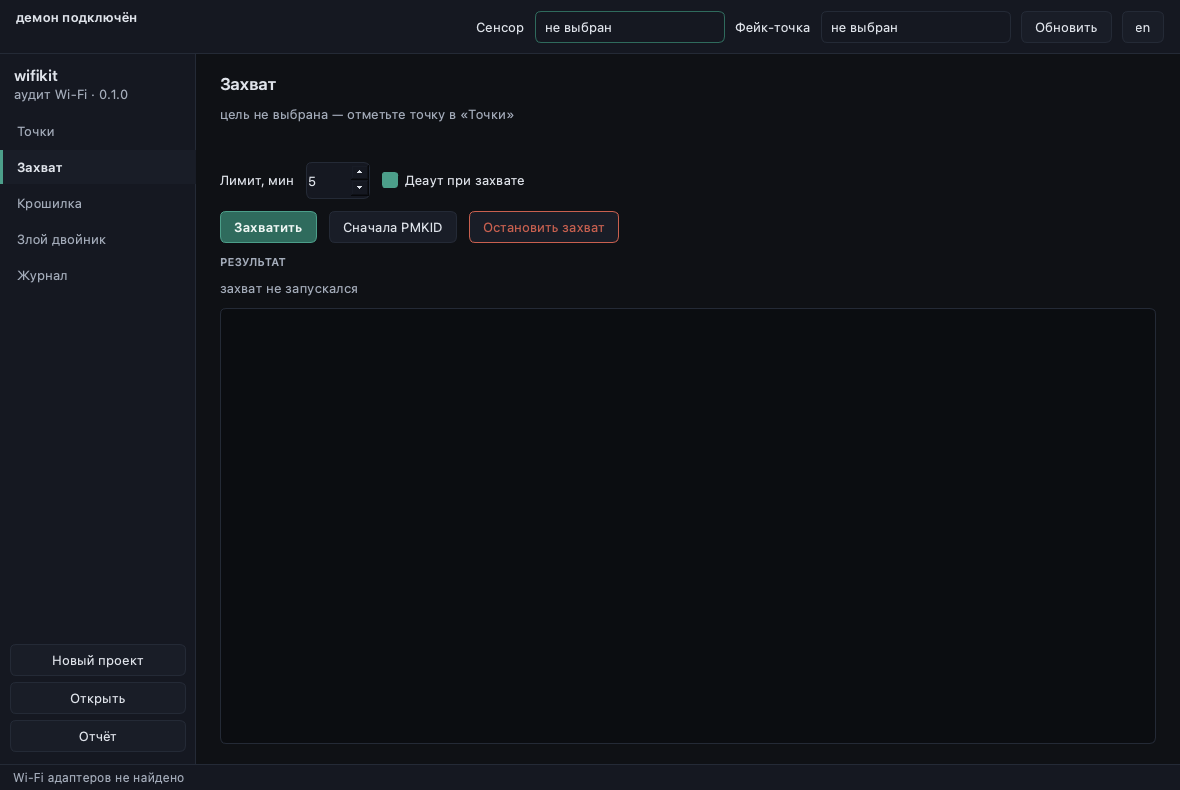
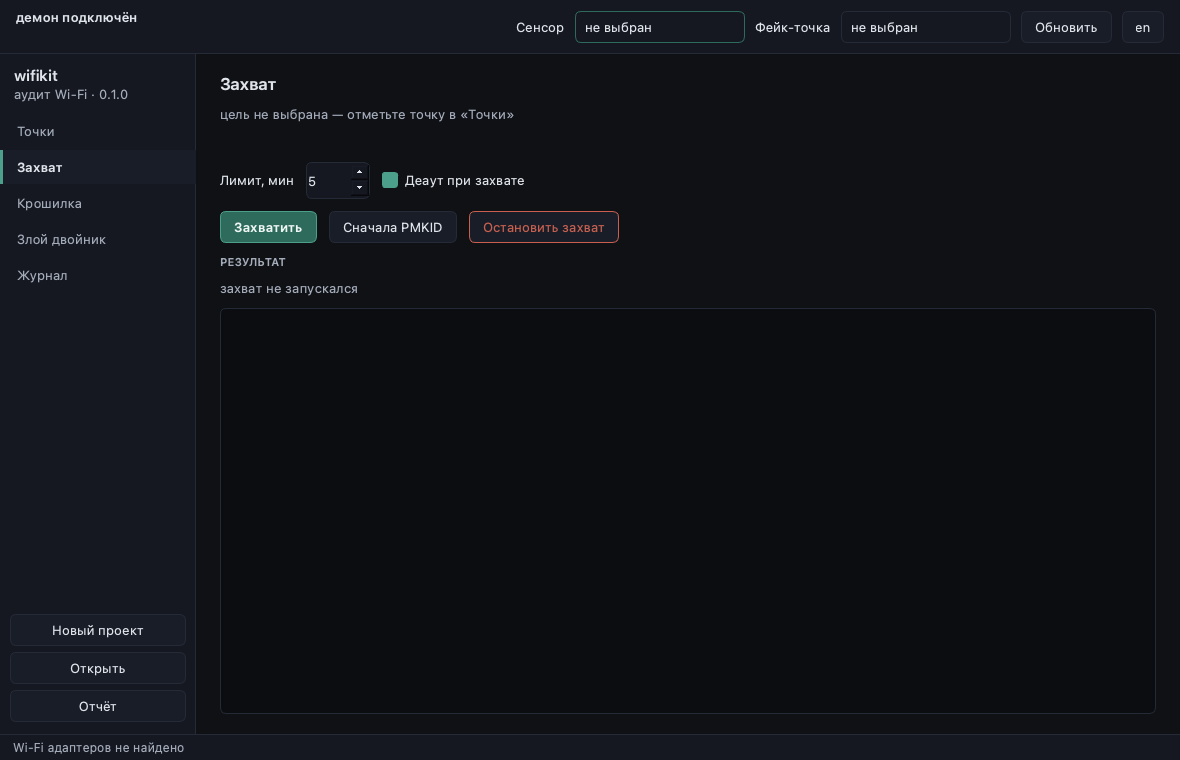
адаптеры: отказ при назначении одного интерфейса на обе роли, подсказки в шапке
- adapters_assign проверяет занятость другой роли до смены состояния
- GUI после отказа перечитывает назначение, шапка не расходится с демоном
- шапка: tooltips у ролей, минимальная ширина окна 1080, чтобы второй список не уезжал
- USAGE: раздел про адаптеры переписан — сколько нужно под каждую задачу, кто за что
  отвечает, как выбрать второй, как проверить режимы через iw phy
- TESTCASES: D2 уточнён, добавлены D7-D9, N1 приведён к фактическому тексту
- тесты на отказ и на освобождение роли

diff --git a/app/main.py b/app/main.py
@@ -38,6 +38,7 @@ class MainWindow(QMainWindow):
         self.lang = "ru"
         self.setWindowTitle("wifikit")
         self.resize(1180, 780)
+        self.setMinimumSize(1080, 700)
         self._build()
         self._connect()
         self.timer = QTimer(self)
@@ -74,15 +75,23 @@ class MainWindow(QMainWindow):
         bar.addLayout(project_box)
         bar.addStretch(1)
 
-        bar.addWidget(QLabel(i18n.t("adapters.probe")))
+        hint_probe = QLabel(i18n.t("adapters.probe"))
+        hint_probe.setToolTip("Слушает эфир: скан, захват рукопожатия, деаут.\n"
+                              "Нужен monitor-режим и инъекция.")
+        bar.addWidget(hint_probe)
         self.combo_probe = QComboBox()
-        self.combo_probe.setMinimumWidth(190)
+        self.combo_probe.setMinimumWidth(170)
+        self.combo_probe.setToolTip("Адаптер-сенсор: скан, захват рукопожатия, деаут")
         self.combo_probe.currentIndexChanged.connect(lambda: self._assign("probe"))
         bar.addWidget(self.combo_probe)
 
-        bar.addWidget(QLabel(i18n.t("adapters.ap")))
+        hint_ap = QLabel(i18n.t("adapters.ap"))
+        hint_ap.setToolTip("Вещает клон точки с порталом.\n"
+                           "Нужен режим точки доступа (nl80211). Для захвата не нужен.")
+        bar.addWidget(hint_ap)
         self.combo_ap = QComboBox()
-        self.combo_ap.setMinimumWidth(190)
+        self.combo_ap.setMinimumWidth(170)
+        self.combo_ap.setToolTip("Адаптер фейк-точки: поднимает клон с порталом")
         self.combo_ap.currentIndexChanged.connect(lambda: self._assign("ap"))
         bar.addWidget(self.combo_ap)
 
@@ -315,7 +324,7 @@ class MainWindow(QMainWindow):
         combo = self.combo_probe if role == "probe" else self.combo_ap
         iface = combo.currentData()
         task = Task(self.remote, "adapters_assign", role=role, iface=iface or "")
-        task.failed.connect(safe_callback(self, "adapters_assign:fail", self.show_error))
+        task.failed.connect(safe_callback(self, "adapters_assign:fail", self._assign_failed))
         task.start()
 
     # --------------------------------------------------------------- project
@@ -332,6 +341,11 @@ class MainWindow(QMainWindow):
         task.done.connect(safe_callback(self, "project_new", self._project_ready))
         task.failed.connect(safe_callback(self, "project_new:fail", self.show_error))
         task.start()
+
+    @safe_slot
+    def _assign_failed(self, message: str, detail: str) -> None:
+        self.show_error(message, detail)
+        self._load_adapters()  # вернуть шапку к тому, что реально назначено
 
     @staticmethod
     def projects_root() -> Path:

diff --git a/tests/unit/test_gui_contract.py b/tests/unit/test_gui_contract.py
@@ -80,6 +80,40 @@ class SessionApiTest(unittest.TestCase):
         missing = [m for m in SESSION_METHODS if not hasattr(session, m)]
         self.assertEqual(missing, [])
 
+    def test_same_adapter_for_both_roles_refused(self):
+        """Один адаптер не может быть и сенсором, и фейк-точкой."""
+        from unittest import mock
+
+        from core import adapters as adapters_mod
+        from core.base import WilfiError
+        from daemon.session import Session
+
+        class FakeAdapter:
+            iface = "wlx_fake"
+            monitor = True
+            ap = True
+            rfkill_blocked = False
+
+        session = Session()
+        with mock.patch.object(adapters_mod, "get_adapter", lambda iface: FakeAdapter()):
+            session.adapters_assign("probe", "wlx_test")
+            with self.assertRaises(WilfiError):
+                session.adapters_assign("ap", "wlx_test")
+            session.adapters_assign("ap", "wlx_other")
+        self.assertEqual((session.probe_iface, session.ap_iface), ("wlx_test", "wlx_other"))
+
+    def test_role_cleared_by_empty_selection(self):
+        from unittest import mock
+
+        from core import adapters as adapters_mod
+        from daemon.session import Session
+
+        session = Session()
+        with mock.patch.object(adapters_mod, "get_adapter", lambda iface: None):
+            session.adapters_assign("probe", "wlx_test")
+            session.adapters_assign("probe", "")
+        self.assertEqual(session.probe_iface, "")
+
     def test_mutating_methods_are_declared(self):
         from daemon import rpc
 

diff --git a/daemon/session.py b/daemon/session.py
@@ -121,6 +121,14 @@ class Session:
         }
 
     def adapters_assign(self, role: str, iface: str) -> dict:
+        other = self.ap_iface if role == "probe" else self.probe_iface
+        if iface and iface == other:
+            raise WilfiError(
+                f"{iface} уже занят другой ролью",
+                code="busy",
+                detail="Сенсор и фейк-точка — разные физические адаптеры: один слушает эфир "
+                       "на канале цели, второй вещает клон. Освободите роль, если хотите поменять.",
+            )
         adapter = adapters_mod.get_adapter(iface) if iface else None
         if adapter:
             adapters_mod.ensure_capability(adapter, role)

diff --git a/docs/USAGE.md b/docs/USAGE.md
@@ -32,18 +32,56 @@ pgrep -af "wifikit/daemon.py"         # один процесс, от root
 
 ## 2. Адаптеры
 
-Роли жёстко разделены:
+### Сколько нужно
 
-| роль | что делает | требования |
+| что делаете | адаптеров | почему |
 |---|---|---|
-| **Сенсор** | скан, захват, деаут | драйвер с monitor-режимом и инъекцией |
-| **Фейк-точка** | поднимает AP с порталом | драйвер с AP-режимом (nl80211) |
+| скан эфира | 1 (сенсор) | скан идёт на одном интерфейсе |
+| захват рукопожатия / PMKID | 1 (сенсор) | деаут шлётся тем же адаптером |
+| крошилка (брутфорс) | 0 | это оффлайн-работа hashcat по файлу `.hc22000` |
+| злой двойник с порталом | **2** | один ловит и глушит клиентов, второй вещает клон |
 
-Один интерфейс нельзя назначить на обе роли — приложение откажется: физически адаптер не сможет
-одновременно ловить эфир на канале жертвы и вещать на своём.
+Второй адаптер нужен только для злого двойника. С одним адаптером можно спокойно сканировать,
+захватывать рукопожатие и крошить — недоступен будет только подъём клона точки.
 
-Выбор в шапке: «Сенсор» и «Фейк-точка». Если пишет «(непригоден)» — `iw phy` не показал нужный режим,
-такой пункт заблокирован. Кнопка «Обновить» перечитывает список (после переподключения адаптера).
+### Кто за что отвечает
+
+| роль в шапке | что делает | требования |
+|---|---|---|
+| **Сенсор** | скан, захват (hcxdumptool), деаут (aireplay-ng), проверка пароля | драйвер с monitor-режимом **и** инъекцией |
+| **Фейк-точка** | MAC/SSID/канал клона, hostapd + dnsmasq + портал 80/8080 | драйвер с AP-режимом (`nl80211`) |
+
+Роли не взаимозаменяемы: сенсор должен слушать канал жертвы, пока фейк-точка вещает клон на том же
+канале. Один интерфейс этого не может — поэтому один и тот же адаптер на обе роли приложение
+не примет (сообщение «уже занят другой ролью»).
+
+### Как выбрать
+
+В шапке два списка: **«Сенсор»** и **«Фейк-точка»**. Это и есть выбор первого и второго адаптера —
+второго отдельного окна нет.
+
+1. Воткнуть оба адаптера.
+2. Нажать «Обновить» — список перечитывается.
+3. В «Сенсор» выбрать адаптер с monitor-режимом (обычно тот, что умеет инъекцию).
+4. В «Фейк-точка» выбрать второй, с AP-режимом.
+5. «не выбран» освобождает роль.
+
+Пометка «(непригоден)» = `iw phy` не показал нужный режим у этого адаптера; такой пункт выбрать нельзя.
+Выбор запоминается в проекте и подтягивается при его открытии.
+
+### Как проверить, что адаптер годится
+
+```bash
+iw dev                                        # имена интерфейсов: wlan0, wlx00c0ca…
+iw phy phy0 info | grep -A8 "Supported interface modes"
+```
+
+В списке должны быть `* monitor` (для сенсора) и `* AP` (для фейк-точки). Если `monitor` нет —
+адаптер не годится в сенсоры, что бы ни обещала коробка.
+
+Рабочие чипы: MT7921AU (Alfa AWUS036AXML), RTL8812AU (AWUS036ACH, нужен DKMS-драйвер),
+MT7612U, AR9271, RT3070. Встроенные карты ноутбуков часто умеют AP, но не умеют monitor —
+их можно назначить только на фейк-точку.
 
 Что делать, если адаптер не виден:
 
@@ -56,6 +94,9 @@ sudo dmesg | tail -30        # драйвер ругается?
 
 Realtek-карты «с Windows-драйвером» иногда монтируются как флешка — их надо переключать
 `usb_modeswitch`; в этом случае `lsusb` покажет странный класс устройства.
+
+Если адаптер виден в `iw dev`, но в приложении помечен «(непригоден)» — драйвер без monitor/AP:
+проверьте `iw phy … info` и версию драйвера (`modinfo rtl8812au | head -3`).
 
 ---
 

diff --git a/docs/TESTCASES.md b/docs/TESTCASES.md
@@ -126,7 +126,8 @@
 В шапке выбрать Сенсор = `wlx…`, Фейк-точка = другой `wlx…` → оба применились, выбор запомнился.
 
 **D2 (P) · Один и тот же адаптер**
-Выбрать один и тот же интерфейс на обе роли → приложение отказывает с понятным текстом.
+Назначить `wlx…` на Сенсор, затем тот же интерфейс на Фейк-точку → окно «… уже занят другой ролью»,
+в тексте объяснено, зачем нужны два разных адаптера, шапка возвращается к прежнему выбору.
 
 **D3 (P) · Непригодный адаптер**
 Пункт с пометкой «(непригоден)» недоступен для выбора.
@@ -136,6 +137,16 @@
 
 **D5 ~ · Имя интерфейса**
 Имя вида `wlx…` стабильно между запусками (не меняется на `wlan0`).
+
+**D7 · Роль запоминается в проекте**
+Назначить оба адаптера → «Новый проект» → закрыть приложение → открыть проект → роли те же
+(`project.json` → `probe_iface`, `ap_iface`).
+
+**D8 · Освобождение роли**
+Выбрать «не выбран» в одном списке → роль снята, второй адаптер остался на своей роли.
+
+**D9 · Подсказки ролей**
+Навести на метки «Сенсор» и «Фейк-точка» → всплывает пояснение, что делает каждый адаптер.
 
 **D6 (P) · Нет адаптеров вообще**
 Оба отключены → «Обновить» пишет в журнал «адаптеров не найдено», приложение не падает.
@@ -373,7 +384,8 @@ SSID, BSSID (в нижнем регистре), канал, RSSI, защита, 
 ## N. Злой двойник: точка
 
 **N1 (P) · Один адаптер**
-Снять вторую роль → «Поднять точку» недоступно с текстом «нужны два разных адаптера».
+Снять роль Фейк-точки (или оставить один адаптер на обеих) → «Поднять точку» отказывает:
+«выберите оба адаптера» либо «один адаптер не может быть и сенсором, и фейк-точкой».
 
 **N2 ! · Подъём**
 «Поднять точку» → «поднята · SSID … · клиентов 0»; в `ap/` появились `hostapd.conf`, `dnsmasq.conf`, `portal.nft`.
